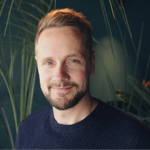
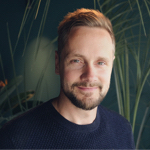
Add CV images of the remaining employees
Flipped Magnus back to facing the original way.

diff --git a/index.html b/index.html
@@ -440,6 +440,39 @@
             </figure>
           </li>
           <li>
+            <figure class="people__figure">
+              <picture>
+                <source srcset="./assets/photos/people/christian-150.jpg" media="(max-width: 850px)" />
+                <img alt="Christian Brevik" src="./assets/photos/people/christian-300.jpg" />
+              </picture>
+              <figcaption class="people__caption">
+                <h3 class="people__title">Christian Brevik</h3>
+              </figcaption>
+            </figure>
+          </li>
+          <li>
+            <figure class="people__figure">
+              <picture>
+                <source srcset="./assets/photos/people/adrian-150.jpg" media="(max-width: 850px)" />
+                <img alt="Adrian Santana Berg" src="./assets/photos/people/adrian-300.jpg" />
+              </picture>
+              <figcaption class="people__caption">
+                <h3 class="people__title">Adrian Santana Berg</h3>
+              </figcaption>
+            </figure>
+          </li>
+          <li>
+            <figure class="people__figure">
+              <picture>
+                <source srcset="./assets/photos/people/maciek-150.jpg" media="(max-width: 850px)" />
+                <img alt="Maciek Adamczyk" src="./assets/photos/people/maciek-300.jpg" />
+              </picture>
+              <figcaption class="people__caption">
+                <h3 class="people__title">Maciek Adamczyk</h3>
+              </figcaption>
+            </figure>
+          </li>
+          <li>
             <a class="link-box" href="https://jobs.variant.no" title="Søk jobb hos oss">
               <figure class="people__figure">
                 <picture>
